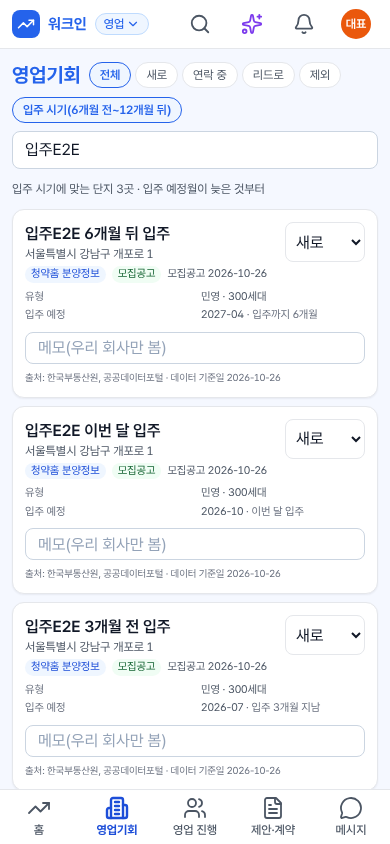
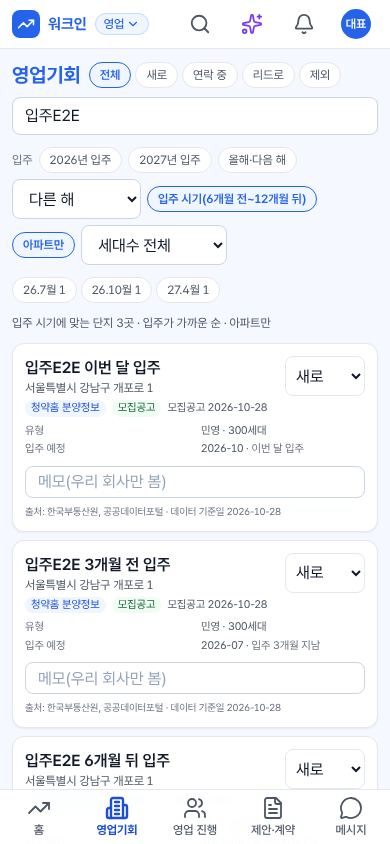
[배포확인요청][로컬요청] 242차 — #759 2026년 입주 목록: 입주 연도·달 고르기 · 가까운 순 · 전체 건수·더 보기 · 아파트만·세대수 · K-apt 준공·입주 단지
로컬 10/28 19:50 #759(대표 최우선 '26년도 입주 아파트 리스트'). 원인: 입주 시기 목록이 입주 예정월 늦은 순 + 100건 상한이라 2026년 1~11월 입주가 잘림.
- src/lib/sales/sources.ts·api/sales/prospects: moveInRange(window·YYYY·YYYY-YYYY·YYYY-MM) · 입주가 이번 달에 가까운 순 · total·달마다 건수(months) · offset 더 보기 · apt(종류 모르는 줄은 남김)·minHh
- src/lib/sales/srcViews.ts·api/sales/src: 허브 ?my= 입주(없으면 준공·사용승인) 연도·달 · total
- src/components/sales/Prospects.tsx: 입주 고르기 칩·다른 해·달 칩·건수 줄·더 보기·아파트만·세대수 · 같은 해 K-apt 준공·입주 단지 칸(허브로)
- src/components/sales/SalesSrc.tsx: 허브 ?my= 칩 · 건수 = 전체 건수
- tests: api sales-movein-759(새)·sales-newcomplex-186 · e2e movein759(새)·moveIn186
시험: API 7/7 · E2E 2/2 · typecheck·lint·build

Claude-Session: https://claude.ai/code/session_016D6QaBbBuSZXAeHKp3DqaZ

diff --git a/src/components/sales/Prospects.tsx b/src/components/sales/Prospects.tsx
@@ -1,7 +1,9 @@
 'use client';
 import { dtf } from '@/lib/dtf';
-import { useState } from 'react';
+import Link from 'next/link';
+import { useEffect, useState } from 'react';
 import { api, useApi } from '@/components/client';
+import { useUrlState } from '@/components/urlState';
 import { ErrorBox, Skeleton, cx, inputCls, toast } from '@/components/ui';
 
 const ST = { new: '새로', contacting: '연락 중', lead: '리드로', skip: '제외' } as const;
@@ -16,29 +18,75 @@ function moveInLabel(moveIn: string) {
   return diff > 0 ? `입주까지 ${diff}개월` : diff === 0 ? '이번 달 입주' : `입주 ${-diff}개월 지남`;
 }
 
+const thisYear = () => Number(dtf('en-CA', { timeZone: 'Asia/Seoul', year: 'numeric' }).format(new Date()));
+/** 242차 #759: 입주 고르기 이름 — window · YYYY · YYYY-YYYY · YYYY-MM */
+function miLabel(mi: string) {
+  if (mi === 'window') return '입주 시기(6개월 전~12개월 뒤)';
+  if (/^\d{4}$/.test(mi)) return `${mi}년 입주`;
+  if (/^\d{4}-\d{4}$/.test(mi)) return `${mi.slice(0, 4)}~${mi.slice(5)}년 입주`;
+  return `${mi.slice(0, 4)}년 ${Number(mi.slice(5, 7))}월 입주`;
+}
+type MoveInfo = { from: string; to: string; months: { ym: string; n: number }[] };
+type Kapt = { id: string; name: string; date?: string | null; completion?: string | null; moveIn?: string | null; households?: number | string | null; address?: string | null; region?: string | null };
+
 export function Prospects() {
   const [status, setStatus] = useState('');
   const [q, setQ] = useState(''); const [query, setQuery] = useState('');
-  const [move, setMove] = useState(false); // 입주 시기 목록(입주 6개월 전 ~ 입주 후 12개월)
-  const { data, error, reload } = useApi<{ prospects: P[] }>(`/api/sales/prospects?status=${status}&q=${encodeURIComponent(query)}${move ? '&moveIn=window' : ''}`, [status, query, move]);
+  // 242차 #759(대표 10/28 '26년도 입주 아파트 리스트'): 입주 고르기(?mi=) · 아파트만(기본 켬, ?mapt=0 끔) · 세대수 이상(?mhh=) — 주소에 남음
+  const [mi, setMi] = useUrlState('mi', ''); const [aptQ, setApt] = useUrlState('mapt', ''); const [hh, setHh] = useUrlState('mhh', '');
+  const move = !!mi; const apt = move && aptQ !== '0';
+  const y = thisYear(); const year = /^\d{4}/.test(mi) ? mi.slice(0, 4) : '';
+  const qs = `status=${status}&q=${encodeURIComponent(query)}${move ? `&moveIn=${mi}${apt ? '&apt=1' : ''}${Number(hh) > 0 ? `&minHh=${hh}` : ''}` : ''}`;
+  const { data, error, reload } = useApi<{ prospects: P[]; total: number; moveIn?: MoveInfo }>(`/api/sales/prospects?${qs}`, [qs]);
+  const [more, setMore] = useState<P[]>([]); const [busy, setBusy] = useState(false);
+  useEffect(() => setMore([]), [qs, data]);
+  const list = [...(data?.prospects ?? []), ...more];
+  async function loadMore() {
+    setBusy(true);
+    try { const r = await api<{ prospects: P[] }>(`/api/sales/prospects?${qs}&offset=${list.length}&limit=100`); setMore((m) => [...m, ...r.prospects]); } catch (e: any) { toast.error(e.message); } finally { setBusy(false); }
+  }
+  // 같은 해·달의 K-apt 준공·입주(사용승인) 단지 · 신규 단지 — 영업기회 허브 목록(회사 거르기·진행 상태 그대로)
+  const my = /^\d{4}(-\d{2})?$/.test(mi) && !/^\d{4}-\d{4}$/.test(mi) ? mi : '';
+  const fac = useApi<{ items: Kapt[]; total?: number }>(my ? `/api/sales/src?view=hub&tab=facilities&my=${my}&sort=moveIn${Number(hh) > 0 ? `&hh=${hh}` : ''}${query ? `&q=${encodeURIComponent(query)}` : ''}` : null, [my, hh, query]);
+  const bld = useApi<{ items: Kapt[]; total?: number }>(my ? `/api/sales/src?view=hub&tab=buildings&my=${my}&sort=moveIn${Number(hh) > 0 ? `&hh=${hh}` : ''}${query ? `&q=${encodeURIComponent(query)}` : ''}` : null, [my, hh, query]);
   async function set(p: P, body: { status?: string; memo?: string }) {
     try { await api(`/api/sales/prospects/${p.id}`, { method: 'PATCH', body }); reload(); } catch (e: any) { toast.error(e.message); }
   }
+  const chip = (on: boolean) => cx('rounded-full border px-2.5 py-1 text-xs', on ? 'border-[#2563EB] bg-[#EFF6FF] font-semibold text-[#2563EB]' : 'border-line bg-white text-ink-2');
+  const kapt = [...(bld.data?.items ?? []).map((x) => ({ ...x, tab: 'buildings' as const })), ...(fac.data?.items ?? []).map((x) => ({ ...x, tab: 'facilities' as const }))];
+  const kaptTotal = (bld.data?.total ?? bld.data?.items.length ?? 0) + (fac.data?.total ?? fac.data?.items.length ?? 0);
   return (
     <div className="space-y-3" data-testid="prospects">
       <div className="flex flex-wrap items-center gap-2">
         <h1 className="text-xl font-bold text-[#2563EB]">영업기회</h1>
         <div className="flex gap-1">{[['', '전체'], ['new', '새로'], ['contacting', '연락 중'], ['lead', '리드로'], ['skip', '제외']].map(([k, l]) => (
-          <button key={k} type="button" onClick={() => setStatus(k)} aria-pressed={status === k} className={cx('rounded-full border px-2.5 py-1 text-xs', status === k ? 'border-[#2563EB] bg-[#EFF6FF] font-semibold text-[#2563EB]' : 'border-line bg-white text-ink-2')}>{l}</button>))}</div>
-        <button type="button" onClick={() => setMove((v) => !v)} aria-pressed={move} data-testid="prospects-movein" title="청약홈 입주 예정월 기준 — 입주 6개월 전부터 입주 후 12개월까지"
-          className={cx('rounded-full border px-2.5 py-1 text-xs', move ? 'border-[#2563EB] bg-[#EFF6FF] font-semibold text-[#2563EB]' : 'border-line bg-white text-ink-2')}>입주 시기(6개월 전~12개월 뒤)</button>
+          <button key={k} type="button" onClick={() => setStatus(k)} aria-pressed={status === k} className={chip(status === k)}>{l}</button>))}</div>
         <form onSubmit={(e) => { e.preventDefault(); setQuery(q.trim()); }} className="ml-auto w-full sm:w-64"><input className={inputCls} value={q} onChange={(e) => setQ(e.target.value)} placeholder="이름·주소 검색" aria-label="영업기회 검색" /></form>
       </div>
-      {move && data && !!data.prospects.length && <p className="text-xs text-ink-2" data-testid="prospects-movein-count">입주 시기에 맞는 단지 {data.prospects.length}곳 · 입주 예정월이 늦은 것부터</p>}
-      {error ? <ErrorBox error={error} retry={reload} /> : !data ? <Skeleton rows={5} /> : !data.prospects.length ? (
-        <p className="rounded-card border border-dashed border-line bg-white p-6 text-center text-sm text-ink-3">{move ? '입주 시기(입주 6개월 전~입주 후 12개월)에 맞는 단지가 아직 없습니다. 청약홈 분양정보 원천을 켜면 입주 예정월로 골라 보여 줍니다.' : '아직 영업기회가 없습니다. 데이터 설정에서 원천을 켜면 매일 아침 새로 들어옵니다.'}</p>
+      {/* 242차 #759: 입주 고르기 — 올해·다음 해 바로, 다른 해는 고르기 · 6개월 전~12개월 뒤 창(186차) */}
+      <div className="flex flex-wrap items-center gap-1.5" data-testid="prospects-movein-row">
+        <span className="text-xs text-ink-3">입주</span>
+        {[String(y), String(y + 1), `${y}-${y + 1}`].map((k) => (
+          <button key={k} type="button" onClick={() => setMi(mi === k ? '' : k)} aria-pressed={mi === k || (k.length === 4 && mi.startsWith(`${k}-`) && mi.length === 7)} className={chip(mi === k || (k.length === 4 && mi.startsWith(`${k}-`) && mi.length === 7))} data-testid={`prospects-mi-${k}`}>{k.length === 4 ? `${k}년 입주` : '올해·다음 해'}</button>))}
+        <select className={cx(inputCls, 'h-7 !w-auto py-0 text-xs')} value={/^\d{4}$/.test(mi) && ![String(y), String(y + 1)].includes(mi) ? mi : ''} onChange={(e) => setMi(e.target.value)} aria-label="입주 연도 고르기" data-testid="prospects-mi-year">
+          <option value="">다른 해</option>{[y - 2, y - 1, y + 2, y + 3].map((v) => <option key={v} value={String(v)}>{v}년 입주</option>)}</select>
+        <button type="button" onClick={() => setMi(mi === 'window' ? '' : 'window')} aria-pressed={mi === 'window'} data-testid="prospects-movein" title="청약홈 입주 예정월 기준 — 입주 6개월 전부터 입주 후 12개월까지" className={chip(mi === 'window')}>입주 시기(6개월 전~12개월 뒤)</button>
+        {move && <>
+          <span className="mx-0.5 hidden h-4 w-px bg-line sm:block" />
+          <button type="button" onClick={() => setApt(apt ? '0' : '')} aria-pressed={apt} className={chip(apt)} data-testid="prospects-apt" title="청약홈 '아파트' 분양만(오피스텔·도시형·민간임대·생활숙박 빼기)">아파트만</button>
+          <select className={cx(inputCls, 'h-7 !w-auto py-0 text-xs')} value={hh} onChange={(e) => setHh(e.target.value)} aria-label="세대수 이상" data-testid="prospects-hh">
+            <option value="">세대수 전체</option>{['100', '300', '500', '1000'].map((v) => <option key={v} value={v}>{Number(v).toLocaleString('ko-KR')}세대 이상</option>)}</select>
+        </>}
+      </div>
+      {move && data?.moveIn && (data.moveIn.months.length > 1 || mi.length === 7) && <div className="flex flex-wrap items-center gap-1 text-xs" data-testid="prospects-months">
+        {mi.length === 7 && <button type="button" onClick={() => setMi(year)} className={chip(false)} data-testid="prospects-month-all">‹ {year}년 전체</button>}
+        {data.moveIn.months.map((m) => <button key={m.ym} type="button" onClick={() => setMi(m.ym)} className={chip(mi === m.ym)} data-testid="prospects-month">{data.moveIn!.months.some((x) => x.ym.slice(0, 4) !== m.ym.slice(0, 4)) ? `${m.ym.slice(2, 4)}.` : ''}{Number(m.ym.slice(5, 7))}월 {m.n}</button>)}
+      </div>}
+      {move && data && <p className="text-xs text-ink-2" data-testid="prospects-movein-count">{mi === 'window' ? `입주 시기에 맞는 단지 ${data.total}곳` : `${miLabel(mi)} ${data.total}곳`} · 입주가 가까운 순{apt ? ' · 아파트만' : ''}{Number(hh) > 0 ? ` · ${Number(hh).toLocaleString('ko-KR')}세대 이상` : ''}</p>}
+      {error ? <ErrorBox error={error} retry={reload} /> : !data ? <Skeleton rows={5} /> : !list.length ? (
+        <p className="rounded-card border border-dashed border-line bg-white p-6 text-center text-sm text-ink-3">{move ? `${miLabel(mi)} 청약홈 단지가 아직 없습니다${apt ? '(아파트만)' : ''}. 청약홈 분양정보 원천을 켜면 입주 예정월로 골라 보여 줍니다.` : '아직 영업기회가 없습니다. 데이터 설정에서 원천을 켜면 매일 아침 새로 들어옵니다.'}</p>
       ) : (
-        <ul className="space-y-2">{data.prospects.map((p) => ( /* #609(대표 10/25 ⑤): 허브 모든 탭 1열 */
+        <ul className="space-y-2">{list.map((p) => ( /* #609(대표 10/25 ⑤): 허브 모든 탭 1열 */
           <li key={p.id} className="rounded-card border border-line bg-white p-3 shadow-card" data-testid="prospect-card">
             <div className="flex items-start gap-2">
               <div className="min-w-0 flex-1">
@@ -70,6 +118,21 @@ export function Prospects() {
             <p className="mt-1.5 text-[10px] text-ink-3" data-testid="prospect-source">{p.attribution} · 데이터 기준일 {p.base_date}</p>
           </li>))}</ul>
       )}
+      {data && list.length < data.total && <button type="button" onClick={loadMore} disabled={busy} className="w-full rounded-card border border-line bg-white py-2 text-sm text-ink-2 hover:bg-slate-50 disabled:opacity-60" data-testid="prospects-more">
+        {busy ? '불러오는 중…' : `더 보기 (${list.length.toLocaleString('ko-KR')} / ${data.total.toLocaleString('ko-KR')})`}</button>}
+      {/* 242차 #759: 같은 해·달 K-apt 준공·입주(사용승인) 단지·신규 단지 — 영업기회 허브 목록(회사 거르기·진행 상태 그대로) */}
+      {my && (fac.data || bld.data) && <section className="space-y-1.5 rounded-card border border-line bg-white p-3" data-testid="prospects-kapt">
+        <div className="flex flex-wrap items-center gap-2 text-sm"><b>K-apt·신규 단지 준공·입주 {miLabel(my).replace(' 입주', '')} {kaptTotal}곳</b>
+          <span className="text-xs text-ink-3">입주일(없으면 준공·사용승인일) 기준</span>
+          <Link prefetch={false} href={`/s/sales/hub?tab=facilities&my=${my}&sort=moveIn`} className="ml-auto text-xs text-[#2563EB] hover:underline" data-testid="prospects-kapt-all">허브에서 모두 보기</Link></div>
+        {!kapt.length ? <p className="text-xs text-ink-3">이 기간 K-apt 준공·입주 단지가 없습니다.</p>
+          : <ul className="divide-y divide-line text-sm">{kapt.slice(0, 30).map((x) => (
+            <li key={`${x.tab}:${x.id}`} className="flex min-w-0 items-center gap-2 py-1.5" data-testid="prospects-kapt-row">
+              <Link prefetch={false} href={`/s/sales/hub?tab=${x.tab}&id=${encodeURIComponent(String(x.id))}`} className="min-w-0 flex-1 truncate hover:underline">{x.name}</Link>
+              <span className="shrink-0 text-xs text-ink-2">{[x.moveIn ? `입주 ${x.moveIn.slice(0, 7)}` : (x.completion ?? x.date) ? `준공 ${String(x.completion ?? x.date).slice(0, 7)}` : null, Number(x.households) > 0 ? `${Number(x.households).toLocaleString('ko-KR')}세대` : null, x.tab === 'buildings' ? '신규 단지' : 'K-apt'].filter(Boolean).join(' · ')}</span>
+            </li>))}</ul>}
+        {kapt.length > 30 && <p className="text-[11px] text-ink-3">그 밖 {kapt.length - 30}곳은 허브에서</p>}
+      </section>}
     </div>
   );
 }

diff --git a/src/lib/sales/sources.ts b/src/lib/sales/sources.ts
@@ -183,28 +183,49 @@ export function moveInWindow(now = new Date()) {
   const first = (add: number) => new Date(Date.UTC(y, m - 1 + add, 1)).toISOString().slice(0, 10);
   return { from: first(-12), to: first(6) };
 }
-/** 영업기회 목록: 회사가 켠 원천 × (지역·검색어·제외어) — 원천 데이터는 공용, 진행 상태·메모는 회사별 */
-export async function listProspects(u: SessionUser, q: { status?: string; source?: string; q?: string; limit?: number; moveIn?: string }) {
+/** 242차 #759(대표 10/28 '26년도 입주 아파트 리스트'): 입주 고르기 — window(6개월 전~12개월 뒤) · YYYY(한 해) · YYYY-YYYY(여러 해, 5년까지) · YYYY-MM(한 달). 입주 예정월은 그 달 1일 */
+export function moveInRange(v?: string | null, now = new Date()): { from: string; to: string } | null {
+  if (!v) return null;
+  if (v === 'window') return moveInWindow(now);
+  let m = /^(\d{4})$/.exec(v); if (m) return { from: `${m[1]}-01-01`, to: `${m[1]}-12-01` };
+  m = /^(\d{4})-(\d{4})$/.exec(v); if (m && +m[1] <= +m[2] && +m[2] - +m[1] <= 5) return { from: `${m[1]}-01-01`, to: `${m[2]}-12-01` };
+  m = /^(\d{4})-(0[1-9]|1[0-2])$/.exec(v); if (m) return { from: `${v}-01`, to: `${v}-01` };
+  return null;
+}
+/** 영업기회 목록: 회사가 켠 원천 × (지역·검색어·제외어) — 원천 데이터는 공용, 진행 상태·메모는 회사별.
+ *  242차 #759: 입주 고르기면 입주가 오늘에 가까운 순 · 전체 건수(total)·월별 건수(months) · 더 보기(offset) · 아파트만(apt)·세대수 이상(minHh) */
+export async function listProspects(u: SessionUser, q: { status?: string; source?: string; q?: string; limit?: number; offset?: number; moveIn?: string; apt?: boolean; minHh?: number }) {
   await assertSpace(u, 'sales');
   const sql = db(); const t = tenantOf(u);
-  // 186차(로컬 10/26 19:20 B2): 입주 시기 목록 — 입주 6개월 전 ~ 입주 후 12개월(= 입주 예정월이 12개월 전 ~ 6개월 뒤), 입주 예정월이 늦은 것부터
-  const win = q.moveIn === 'window'; const { from, to } = moveInWindow();
-  const rows = await sql<any[]>`select p.id, p.name, p.address, p.sido, p.status as biz_status, to_char(p.opened_on, 'YYYY-MM-DD') as opened_on, to_char(p.closed_on, 'YYYY-MM-DD') as closed_on,
-      p.category, p.detail, to_char(coalesce(p.base_date, p.fetched_at::date), 'YYYY-MM-DD') as base_date, s.code as source_code, s.name as source_name, s.provider, s.license,
-      coalesce(tp.status, 'new') as status, tp.memo
-    from prospects p join data_sources s on s.code = p.source_code
-    join tenant_data_sources ts on ts.source_code = p.source_code and ts.tenant = ${t} and ts.enabled
-    left join tenant_prospects tp on tp.prospect_id = p.id and tp.tenant = ${t}
-    where (cardinality(ts.regions) = 0 or p.sido = any(ts.regions))
+  const mi = moveInRange(q.moveIn);
+  const [ny, nm] = new Intl.DateTimeFormat('en-CA', { timeZone: 'Asia/Seoul', year: 'numeric', month: '2-digit' }).format(new Date()).split('-').map(Number);
+  const minHh = Math.max(0, Math.min(Math.round(Number(q.minHh) || 0), 100000));
+  const lim = Math.min(Math.max(Math.round(Number(q.limit) || 100), 1), 300), off = Math.min(Math.max(Math.round(Number(q.offset) || 0), 0), 20000);
+  const hhOf = sql`coalesce(nullif(regexp_replace(coalesce(p.detail->>'households', ''), '[^0-9]', '', 'g'), '')::numeric, 0)`;
+  const cond = sql`(cardinality(ts.regions) = 0 or p.sido = any(ts.regions))
       and (cardinality(ts.keywords) = 0 or s.category = 'permit' or exists (select 1 from unnest(ts.keywords) k where p.name ilike '%' || k || '%' or coalesce(p.category, '') ilike '%' || k || '%'))
       and not exists (select 1 from unnest(ts.excludes) x where p.name ilike '%' || x || '%')
       and (${q.source ?? ''} = '' or p.source_code = ${q.source ?? ''})
       and (${q.q ?? ''} = '' or p.name ilike ${'%' + (q.q ?? '') + '%'} or coalesce(p.address, '') ilike ${'%' + (q.q ?? '') + '%'})
       and (${q.status ?? ''} = '' or coalesce(tp.status, 'new') = ${q.status ?? ''})
       and (${q.status ?? ''} = 'skip' or coalesce(tp.status, 'new') <> 'skip')
-      and (${win ? 1 : 0} = 0 or (p.detail->>'moveIn' >= ${from} and p.detail->>'moveIn' <= ${to}))
-    order by ${win ? sql`p.detail->>'moveIn' desc,` : sql``} p.opened_on desc nulls last, p.id desc limit ${Math.min(q.limit ?? 100, 300)}`;
-  return { prospects: rows.map((r) => ({ ...r, attribution: attribution(r) })) };
+      and ${q.apt ? sql`coalesce(p.detail->>'kind', '아파트') = '아파트'` : sql`true`} and ${minHh ? sql`${hhOf} >= ${minHh}` : sql`true`}`;
+  const from = sql`from prospects p join data_sources s on s.code = p.source_code
+    join tenant_data_sources ts on ts.source_code = p.source_code and ts.tenant = ${t} and ts.enabled
+    left join tenant_prospects tp on tp.prospect_id = p.id and tp.tenant = ${t}`;
+  const inMove = mi ? sql`and p.detail->>'moveIn' >= ${mi.from} and p.detail->>'moveIn' <= ${mi.to}` : sql``;
+  // 입주가 오늘(서울 이번 달)에 가까운 순 → 같은 거리면 이른 달·세대수 많은 순
+  const dist = sql`abs((substr(p.detail->>'moveIn', 1, 4)::int * 12 + substr(p.detail->>'moveIn', 6, 2)::int) - ${ny * 12 + nm})`;
+  const rows = await sql<any[]>`select p.id, p.name, p.address, p.sido, p.status as biz_status, to_char(p.opened_on, 'YYYY-MM-DD') as opened_on, to_char(p.closed_on, 'YYYY-MM-DD') as closed_on,
+      p.category, p.detail, to_char(coalesce(p.base_date, p.fetched_at::date), 'YYYY-MM-DD') as base_date, s.code as source_code, s.name as source_name, s.provider, s.license,
+      coalesce(tp.status, 'new') as status, tp.memo, count(*) over() as total
+    ${from}
+    where ${cond} ${inMove}
+    order by ${mi ? sql`${dist}, p.detail->>'moveIn', ${hhOf} desc,` : sql``} p.opened_on desc nulls last, p.id desc limit ${lim} offset ${off}`;
+  // 여러 달을 고른 때: 달마다 건수(칩) — 같은 거르기 그대로
+  const months = mi && mi.from !== mi.to ? (await sql<{ ym: string; n: number }[]>`select substr(p.detail->>'moveIn', 1, 7) as ym, count(*)::int as n ${from} where ${cond} ${inMove} group by 1 order by 1`) : [];
+  const total = rows.length ? Number(rows[0].total) : off ? Number((await sql<{ n: number }[]>`select count(*)::int as n ${from} where ${cond} ${inMove}`)[0].n) : 0;
+  return { total, offset: off, limit: lim, ...(mi ? { moveIn: { ...mi, months } } : {}), prospects: rows.map(({ total: _t, ...r }) => ({ ...r, attribution: attribution(r) })) };
 }
 export const prospectInput = z.object({ status: z.enum(['new', 'contacting', 'lead', 'skip']).optional(), memo: z.string().max(2000).optional() });
 export async function setProspect(u: SessionUser, id: number, i: z.infer<typeof prospectInput>) {

diff --git a/src/lib/sales/srcViews.ts b/src/lib/sales/srcViews.ts
@@ -196,7 +196,7 @@ export function isOpenBid(n: { related?: boolean; status?: unknown; close?: stri
   return true;
 }
 
-export async function salesView(u: SessionUser, view: string, q: { q?: string; id?: string; status?: string; tab?: string; day?: string; from?: string; to?: string; biz?: string; sort?: string; box?: string; region?: string; hh?: string; period?: string; trace?: string[] }) {
+export async function salesView(u: SessionUser, view: string, q: { q?: string; id?: string; status?: string; tab?: string; day?: string; from?: string; to?: string; biz?: string; sort?: string; box?: string; region?: string; hh?: string; period?: string; my?: string; trace?: string[] }) {
   await assertSpace(u, 'sales');
   const t = tenantOf(u); const sql = db();
   const [applied] = await sql<{ value: any }[]>`select value from app_settings where key = 'sales_migrate_applied'`;
@@ -537,6 +537,9 @@ export async function salesView(u: SessionUser, view: string, q: { q?: string; i
     const sortKey = String(q.sort ?? '') || null; const region = String(q.region ?? '').trim(); const hh = Number(q.hh) > 0 ? Number(q.hh) : 0; const months = [1, 3, 6].includes(Number(q.period)) ? Number(q.period) : 0;
     const lo = months ? shiftMonths(td, -months) : null, hi = months ? shiftMonths(td, months) : null;
     const inPeriod = (...dates: (string | null | undefined)[]) => !months || dates.some((d) => !!d && d >= lo! && d <= hi!);
+    // 242차 #759: 입주(없으면 준공·사용승인) 연도·달(?my=YYYY|YYYY-MM) — 영업기회 '2026년 입주' 목록에 K-apt 준공·입주 단지를 함께
+    const my = /^\d{4}(-(0[1-9]|1[0-2]))?$/.test(String(q.my ?? '')) ? String(q.my) : '';
+    const myOk = (d: string | null | undefined) => !my || (!!d && d.startsWith(my));
     const regionOk = (x: { region?: unknown; address?: unknown }) => !region || String(x.region ?? '').includes(region) || String(x.address ?? '').includes(region);
     const hhOk = (x: { households?: unknown }) => !hh || Number(x.households) >= hh;
     const asc = (a: unknown, b: unknown) => String(a ?? '9999-99').localeCompare(String(b ?? '9999-99')); const desc = (a: unknown, b: unknown) => String(b ?? '').localeCompare(String(a ?? '')); const numDesc = (a: unknown, b: unknown) => (Number(b) || 0) - (Number(a) || 0);
@@ -546,7 +549,7 @@ export async function salesView(u: SessionUser, view: string, q: { q?: string; i
       const archived = list.filter(isDone); const base = (box === 'archive' ? archived : list.filter((x) => !isDone(x))).filter(keep);
       const statusCounts = Object.fromEntries(STATUS_GROUPS.map(([k]) => [k, base.filter((x) => stMatch(k, stOf(x))).length])); // #459 칩 건수(상태 필터 전)
       const out = stKey ? base.filter((x) => stMatch(stKey, stOf(x))) : base;
-      return { ...meta, tab, box, tabs, sort: sortKey, status: stKey || null, statusGroups: STATUS_GROUPS.map(([k, l]) => [k, l]), statusCounts, filters: { region: region || null, hh: hh || null, period: months || null }, regions, archiveCount: archived.length, items: (sorter ? [...out].sort(sorter) : out).slice(0, 300) };
+      return { ...meta, tab, box, tabs, sort: sortKey, status: stKey || null, statusGroups: STATUS_GROUPS.map(([k, l]) => [k, l]), statusCounts, filters: { region: region || null, hh: hh || null, period: months || null, my: my || null }, regions, archiveCount: archived.length, total: out.length, items: (sorter ? [...out].sort(sorter) : out).slice(0, 300) };
     };
     // S1-2: 신규단지 진행(opportunity_work · source_id = 단지 id)
     const BW = new Map((await prog('opportunity_work')).filter((w) => String(pick(w, 'source_type') ?? '') === 'building' || pick(w, 'building_id')).map((w) => [String(pick(w, 'source_id', 'building_id') ?? ''), w]));
@@ -566,7 +569,7 @@ export async function salesView(u: SessionUser, view: string, q: { q?: string; i
           firstSeen: firstSeen(r), raw: r }; });
       type B = (typeof list)[number];
       const sorter: Record<string, (a: B, b: B) => number> = { completion: (a, b) => asc(a.completion, b.completion), moveIn: (a, b) => asc(a.moveIn, b.moveIn), households: (a, b) => numDesc(a.households, b.households), firstSeen: (a, b) => desc(a.firstSeen, b.firstSeen) };
-      return pack(list, (x) => done(x.work?.status), (x) => regionOk(x) && hhOk(x) && inPeriod(x.completion, x.moveIn, x.firstSeen), sorter[sortKey ?? ''] ?? null, (x) => x.work?.status);
+      return pack(list, (x) => done(x.work?.status), (x) => regionOk(x) && hhOk(x) && inPeriod(x.completion, x.moveIn, x.firstSeen) && myOk(x.moveIn ?? x.completion), sorter[sortKey ?? ''] ?? null, (x) => x.work?.status);
     }
     if (tab === 'facilities') {
       const P = new Map((await prog('operating_facility_prospects__progress', 20000)).map((p) => [String(p.id ?? p.__id), p]));
@@ -591,7 +594,7 @@ export async function salesView(u: SessionUser, view: string, q: { q?: string; i
       type Fc = (typeof list)[number];
       const sorter: Record<string, (a: Fc, b: Fc) => number> = { completion: (a, b) => asc(a.date, b.date), moveIn: (a, b) => asc(a.moveIn, b.moveIn), elapsed: (a, b) => numDesc(a.elapsedDays, b.elapsedDays), households: (a, b) => numDesc(a.households, b.households), next: (a, b) => asc(a.next, b.next) };
       // 200차 #699: 원본 기준일 한 줄 — 준공·입주 단지 원천의 기준일(우선순위 순: K-apt 자료실 주 1회 · K-apt 단지 목록 매일 · 한국부동산원 연 1회)
-      return { ...pack(list, (x) => done(x.contact), (x) => regionOk(x) && hhOk(x) && inPeriod(x.date, x.moveIn, x.firstSeen),
+      return { ...pack(list, (x) => done(x.contact), (x) => regionOk(x) && hhOk(x) && inPeriod(x.date, x.moveIn, x.firstSeen) && myOk(x.moveIn ?? x.date),
         sorter[sortKey ?? ''] ?? ((a, b) => (Number(b.households ?? 0) - Number(a.households ?? 0)) || ((b.score ?? -1) - (a.score ?? -1))), (x) => x.contact),
         sourceAsOf: await sourceAsOf(['kapt_weekly_complexes', 'kapt_new_complexes', 'reb_recent_complexes']) };
     }

diff --git a/src/components/sales/SalesSrc.tsx b/src/components/sales/SalesSrc.tsx
@@ -1198,8 +1198,9 @@ export function Hub({ initialSub }: { initialTab?: string; initialDay?: string; 
   const [boxQ, setBox] = useUrlState('box', ''); const box = boxQ === 'archive' ? 'archive' : ''; // #605 보관함(대상 아님·완료)
   const [sort, setSort] = useUrlState('sort', ''); const [region, setRegion] = useUrlState('region', ''); const [hh, setHh] = useUrlState('hh', ''); const [period, setPeriod] = useUrlState('period', ''); // #606
   const [st, setSt] = useUrlState('st', ''); // #459(대표 10/23): 상태 필터 칩(주소 ?st=)
+  const [my, setMy] = useUrlState('my', ''); // 242차 #759: 입주(없으면 준공) 연도·달 — 영업기회 '2026년 입주'에서 넘어옴
   const sub = ['bids', 'contracts', 'prospects', 'regions'].includes(tab);
-  const { data, error, reload } = useApi<any>(sub ? (null as unknown as string) : `/api/sales/src?${q({ view: 'hub', tab, q: s, day, box, sort, region, hh, period, status: st })}`, [tab, s, day, box, sort, region, hh, period, st]);
+  const { data, error, reload } = useApi<any>(sub ? (null as unknown as string) : `/api/sales/src?${q({ view: 'hub', tab, q: s, day, box, sort, region, hh, period, status: st, my })}`, [tab, s, day, box, sort, region, hh, period, st, my]);
   const [sel, setSel] = useState<string[]>([]); // 대표 10/20 14:15 ④ 일괄 선택
   useEffect(() => setSel([]), [tab, box, st]);
   const reopen = useRef(sub ? null : sp.get('id')); // 주소 ?id= 상세(새로 고침·뒤로가기) — 목록을 불러온 뒤 그 줄로
@@ -1216,6 +1217,7 @@ export function Hub({ initialSub }: { initialTab?: string; initialDay?: string; 
   return (
     <div className="space-y-3" data-testid="sales-hub">
       <Head title="영업기회 허브" meta={data}><Search value={s} onChange={setS} />
+        {my && <button type="button" onClick={() => setMy('')} className="rounded-full border px-2.5 py-0.5 text-xs" style={{ color: C, borderColor: C }} data-testid="hub-my">{my.length === 4 ? `${my}년` : `${my.slice(0, 4)}년 ${Number(my.slice(5, 7))}월`} 입주·준공 ✕</button>}
         {day === 'today' && <button type="button" onClick={() => setDay('')} className="rounded-full border px-2.5 py-0.5 text-xs" style={{ color: C, borderColor: C }} data-testid="hub-day-today">오늘 새로 들어온 것만 ✕</button>}</Head>
       {tabRow((on) => cx('rounded-full border px-3 py-1 text-xs', on ? 'border-transparent text-white' : 'border-line'), (on) => (on ? { background: C } : undefined))}
       {/* #605 보관함 칩 · #606 정렬·필터(지역·세대수·기간) — 모두 주소에 저장(새로 고침·뒤로가기에도 같은 목록) */}
@@ -1227,7 +1229,7 @@ export function Hub({ initialSub }: { initialTab?: string; initialDay?: string; 
         {tab !== 'vendors' && <select className={cx(inputCls, 'h-7 !w-auto py-0 text-xs')} value={region} onChange={(e) => setRegion(e.target.value)} aria-label="지역 필터" data-testid="hub-f-region"><option value="">지역 전체</option>{regions.map((r) => <option key={r} value={r}>{r}</option>)}{region && !regions.includes(region) && <option value={region}>{region}</option>}</select>}
         {tab !== 'vendors' && <select className={cx(inputCls, 'h-7 !w-auto py-0 text-xs')} value={hh} onChange={(e) => setHh(e.target.value)} aria-label="세대수 필터" data-testid="hub-f-hh"><option value="">세대수 전체</option>{[['300', '300세대 이상'], ['500', '500세대 이상'], ['1000', '1,000세대 이상']].map(([k, l]) => <option key={k} value={k}>{l}</option>)}</select>}
         <select className={cx(inputCls, 'h-7 !w-auto py-0 text-xs')} value={period} onChange={(e) => setPeriod(e.target.value)} aria-label="기간 필터" data-testid="hub-f-period"><option value="">기간 전체</option><option value="1">1개월 안</option><option value="3">3개월 안</option><option value="6">6개월 안</option></select>
-        {data && <span className="ml-auto text-ink-3" data-testid="hub-count">{data.items.length}건{data.items.length === 300 ? '+(최근 300)' : ''}</span>}
+        {data && <span className="ml-auto text-ink-3" data-testid="hub-count">{(data.total ?? data.items.length).toLocaleString('ko-KR')}건{(data.total ?? 0) > data.items.length ? ` (앞 ${data.items.length}건 표시)` : ''}</span>}
       </div>
       {/* #459(대표 10/23): 상태 필터 칩 — 기본 목록은 미검토·검토중·연락중·신청·보류, 보관함은 대상 아님·완료. 0건 묶음은 숨기고 건수를 같이 보여 줌(주소 ?st=) */}
       {data && <div className="flex flex-wrap items-center gap-1.5 text-xs" data-testid="hub-status-row">

diff --git a/src/app/api/sales/prospects/route.ts b/src/app/api/sales/prospects/route.ts
@@ -4,5 +4,7 @@ import { listProspects } from '@/lib/sales/sources';
 /** V41 단계 3 영업기회(공공데이터): 회사가 켠 원천 × 지역·검색어·제외어 */
 export const GET = handler(async ({ req, user }) => {
   const sp = req.nextUrl.searchParams;
-  return listProspects(user, { status: sp.get('status') ?? undefined, source: sp.get('source') ?? undefined, q: sp.get('q') ?? undefined, moveIn: sp.get('moveIn') ?? undefined });
+  // 242차 #759: 입주 고르기(moveIn=window|YYYY|YYYY-YYYY|YYYY-MM) · 아파트만(apt=1) · 세대수 이상(minHh) · 더 보기(offset·limit)
+  return listProspects(user, { status: sp.get('status') ?? undefined, source: sp.get('source') ?? undefined, q: sp.get('q') ?? undefined, moveIn: sp.get('moveIn') ?? undefined,
+    apt: sp.get('apt') === '1', minHh: Number(sp.get('minHh')) || 0, offset: Number(sp.get('offset')) || 0, limit: Number(sp.get('limit')) || undefined });
 });

diff --git a/src/app/api/sales/src/route.ts b/src/app/api/sales/src/route.ts
@@ -6,5 +6,5 @@ export const GET = handler(async ({ req, user }) => {
   const p = req.nextUrl.searchParams;
   return salesView(user, p.get('view') ?? 'summary', { q: p.get('q') ?? undefined, id: p.get('id') ?? undefined, status: p.get('status') ?? undefined, tab: p.get('tab') ?? undefined, day: p.get('day') ?? undefined, from: p.get('from') ?? undefined, to: p.get('to') ?? undefined, biz: p.get('biz') ?? undefined,
     // #605·#606(대표 10/25): 보관함(box=archive)·정렬(sort)·필터(region·hh·period)
-    sort: p.get('sort') ?? undefined, box: p.get('box') ?? undefined, region: p.get('region') ?? undefined, hh: p.get('hh') ?? undefined, period: p.get('period') ?? undefined });
+    sort: p.get('sort') ?? undefined, box: p.get('box') ?? undefined, region: p.get('region') ?? undefined, hh: p.get('hh') ?? undefined, period: p.get('period') ?? undefined, my: p.get('my') ?? undefined });
 });

diff --git a/docs/handoff/LOCAL_LOG.md b/docs/handoff/LOCAL_LOG.md
@@ -625,6 +625,7 @@
 - 2026-10-28 [클라우드] [배포확인요청][로컬요청] 239차 — #743 1단계·#744 현장설명·#751 취소 공고·#749 아이폰 안내: K-apt 상세의 참가 조건·현장설명 저장(마감 전 관련 공고부터, 담당자·전화 저장 안 함) → 입찰 목록 줄(현장설명 필수 D-n·자격·조건 한 줄·펼치기)·상세·공고 조회·당일 메일(배지·일정 줄)·마감 임박(필수 현장설명 3일 안)·넘긴 입찰 업무 일정. 취소 = 상세 '취소된 계약' 읽어 상태 취소·사유·재공고 잇기·진행 중에서 빠짐. 아이폰 147장 = 웹 쪽 막힘 없음(휴대폰 흉내 16초) → 아이폰에 '50장씩 나눠 고르기' 한 줄. **로컬 요청:** 배포 뒤 데이터 설정 › 수집기 K-apt [지금 수집] → ① 잠실래미안아이파크(20261027135716462) 줄 '현장설명 필수 D-n 11/2(일) 10:00 · 생활지원센터 회의실'·자격·조건 한 줄 ② 광명자이더샵포레나 '필수 여부 공고문 참조' ③ 동일스위트 A20261027150017752 ④ kg2b_142624 가 '취소 · 사유'로 바뀌고 진행 중에서 빠지는지 ⑤ 공고 조회 briefing·terms ⑥ 김민수 본부장 아이폰에서 30장·60장·147장 각각 [추가] 뒤 준비 시간(고르기 창이 떠 있는지).
 - 2026-10-28 [클라우드] [배포확인요청][로컬요청] 240차 — #751 후속(kg2b 같은 공고 두 줄 → 모두 취소·원본 매일 복사가 안 되돌림·카드 취소) · #752 하이링크 공사 '면허 업체 협력 필요'·검토 구역 · #753 AI 비서 자료실 찾기 카드 · #754 브랜드 합치기 · #755~#757 캘린더(시간 글자 줄 위·15분 칸 클릭·30분 일정 안 쪼개짐) · 사이드바 미리 받기 5곳만 · 공개 요금 주소 원가 숨김 · #758 후속조사 '커뮤니티 운영 방식 확인'(직영·위탁·미개관·관련 공고 수) · 가입 체험 'AI 5,000원분'. **로컬 요청:** ① 수집기 K-apt [지금 수집] → kg2b_142624 카드 '취소 · 사유'·진행 중 탭에서 빠짐, 공고 조회 줄마다 상태·origin ② 다음 날 원본 매일 복사 뒤에도 취소 유지 ③ 하이링크 로비폰·출입통제 공사 공고에 '면허 업체 협력 필요' 배지·검토 구역(당일 메일) ④ AI 비서에 '자료실에서 ○○ 찾아줘' → 자료 카드 [열기]·[내려받기]·[업무에 붙이기] ⑤ 대표: 마케팅 › 자동 제작 › 브랜드 키트 DAGYM 카드 '같은 브랜드면 합치기' → 다짐 고르고 합치기(옮긴 항목 수 확인) ⑥ 캘린더 10/29 면접 4건(14:00~16:00)이 위아래 한 줄씩·시간 글자가 줄 위·빈 칸 클릭 15분 단위 ⑦ 첫 화면 직후 메뉴 이동 2~6초가 줄었는지(미리 받기 5곳) ⑧ 이미 만든 이번 주 후속조사 업무 제목은 그대로 — 필요하면 손으로 고침.
 - 2026-10-28 [클라우드] [배포확인요청][로컬요청] 241차 — #751 후속 kg2b_142624(목록 최신 500건 밖이라 상세를 다시 못 읽음 → 마감 전 관련 공고 40건씩 다시 읽기 · 공고 조회 probe=1) · 지운 일정 휴지통(지운 사람·때 · 되살리기 · 삭제 안내 [되돌리기]) · 겹친 일정 구글식 겹쳐 쌓기 · #743 1단계 나라장터 면허제한·참가가능지역 · 홈 목록 등 링크 자동 미리 받기 끔. 로컬 확인 부탁: ① 배포 뒤 K-apt 입찰공고 [지금 수집] 요약 '목록 밖 마감 전 공고 다시 확인 n건(취소 m)' · kg2b_142624 취소 여부 ② 플랫폼 공고 조회 ?no=kg2b_142624&probe=1 의 probe 값(응답 코드·길이·canceledText) ③ 캘린더 겹친 일정이 실제 구글 캘린더처럼 비켜 쌓이는지 ④ 나라장터 [지금 수집] 요약 '참가 제한 조회 n건(값 m)'(0건이면 오류 줄의 받은 칸 이름) ⑤ 홈 첫 화면 RSC 요청 수(전 19) ⑥ 캘린더 '지운 일정'에서 김장춘 면접이 '지운 사람 대표'로 보이는지(되살리기는 하지 않음)
+- 2026-10-28 [클라우드] [배포확인요청][로컬요청] 242차 — #759 2026년 입주 목록(영업기회 › 공공데이터 [2026년 입주]: 전체 건수·가까운 순·달 칩·더 보기·아파트만·세대수 · 같은 해 K-apt 준공·입주 단지 칸). 로컬 확인 부탁: 운영에서 [2026년 입주] 건수와 구리역 롯데캐슬 시그니처(2026-03) 보이는지 · 3월 칩 · 더 보기 끝까지 · 아파트만 끄면 오피스텔 · K-apt 칸 건수·허브 상세 이동 · 휴대폰 폭
 - 2026-10-26 [클라우드] [배포확인요청] 176차 — 171·173차 CI 빨간불 원인 2가지 바로잡음: ① 캘린더 종일 칸 설정이 창 폭이 640 을 넘나들 때 PC 값(꺼짐)을 휴대폰 키에 덮어쓰던 실제 버그(휴대폰 보기 종일 줄이 꺼진 채 시작) → 사람이 바꿀 때만 저장·폭 바뀌면 다시 읽음 ② 실기기 83 시트 버튼 줄 1px 여유. 로컬 확인 요청: 없음(운영 화면 변화는 'PC 창을 좁혔다 넓혀도 휴대폰 종일 줄 설정이 안 꺼짐'뿐). CI 결과는 클라우드가 확인.
 - 2026-10-25 [클라우드] [배포확인요청] 149차 — #599 새 고객사 시뮬레이션(시험 서버 E2E: 가입 → 온보딩 → 첫 화면 → 공간 켜기 → 데이터 설정 → 마케팅 → 자동 제작 → 사용량 → 알림 → API 8개, 캡처 281~295) 명세 §3 결과: 내부 이름 0건 · 키 없는 수집기 7개 = '신청 필요'+[방법 보기] · '채널 연결 3단계' · 첫날 알림 0건 · 사용량 원화만. #602 공통 함수 customerScope(seesInternals = 슈퍼관리자 또는 내부 테넌트): 수집기·사용량·자동 제작·마케팅 홈·AI 예산 응답에서 원인·원가·달러·모델·외부 서비스 이름·원천 주소·공용 실행 기록 제거 + 고객 문구 사전 + 금지 낱말 자동 검사(API 5/5·E2E 발견 0건). P0 버그 수정: 새 회사 첫 로그인·온보딩 끝 직후 흰 화면+로고(수화 오류로 실행 애니메이션 덮개가 안 걷힘) → Modal 마운트 뒤 포털·IntroGuard·CSS 안전장치. 마이그레이션 없음(200 그대로). 로컬 요청: ① 운영에서 새 회사 가입(대표 결정 범위 안에서) → 확인 링크 → 첫 화면이 흰 화면 없이 뜨는지, 온보딩 [완료] 직후도 ② 고객사 계정으로 영업 › 데이터 설정(상태 칩 4가지·[방법 보기]·키 이름/주소/오류 원문 없음)·마케팅 › 자동 제작(글 모델 등급 이름만)·관리 › 사용량(원화·%·횟수만) ③ 내부 테넌트(우리 회사)에서는 예전처럼 전부 보이는지 ④ 공개 요금표(/api/public/ai-plans·소개 사이트)의 단가 표시는 그대로 두었음 — 대표 결정 필요하면 알려 주세요.
 - 2026-10-25 [클라우드] [배포확인요청] 148차 — #592 ② 휴대폰 캘린더 주 보기 밀도(명세 §2): 시간 칸 주 40/3일 48/일 64 → 한 화면 약 15시간, 블록 11px 중간 굵기·줄 수 블록 높이만큼, 좁은 블록 앞머리 [태그] 떼기(부재 종류 유지), 종일 줄 기본 켬(2줄 + '+n개' → 그날 목록), 미팅 단추 둥근 48px·아래로 밀면 숨김, 휴대폰 머리줄 한 줄(월▾·보기 전환·‹›·오늘·+). 견적서 공급자 긴 주소 두 줄(로컬 15:45). 마이그레이션 없음(200 그대로). 로컬 요청: ① 대표 휴대폰(390~412px) 주 보기 — 08~22시가 한 화면에, [다짐 문의] 업무가 내용부터 2줄로, 종일 칩이 날짜 머리 아래 바로, + 단추가 칸을 안 가리고 아래로 밀면 숨는지(명세 §3 2~5) ② 3일·일 보기 칸 높이·일 보기는 제목 그대로 ③ 견적서 미리보기(hilink) 공급자 주소 두 줄 ④ 명세 §3 1·6(구글 11건·중복 정리)은 가져오기를 대표가 취소(#604)해 하지 않음 — 워크인에 직접 넣은 일정만 보임.

diff --git a/TEST_REPORT.md b/TEST_REPORT.md
@@ -1,7 +1,9 @@
 # 시험 보고서
 
 최종 실행: 2026-10-13 (UTC) · 클라우드 개발 환경 (Node 22, PostgreSQL 16, Chromium 141)
-요약 (2026-10-28 241차: 로컬 10/28 19:20 요청: ① #751 후속(kg2b_142624 240차 뒤에도 진행중) 진짜 원인 = K-apt 빠른 수집은 목록 최신 500건만 보고 그 상세만 읽어, 목록 밖으로 밀린 마감 전 관련 공고는 취소돼도 상세를 다시 못 읽음 → 이번에 상세를 못 읽은 마감 전 관련 공고를 DB 에서 '다시 확인한 때'(detail_seen_at)가 오래된 순으로 한 번에 40건 다시 읽음(목록 칸은 저장값 그대로 · 다시 읽기만 한 줄은 updated_at·건수 그대로) + 플랫폼 공고 조회 '?no=…&probe=1' = 지금 상세 응답 코드·길이·'취소된 계약' 여부(저장 안 함) ② 지운 일정 휴지통(캘린더 왼쪽·휴대폰 칩 '지운 일정': 최근 30일 · 지운 사람·때 · 입찰·영업 연동 취소 표시 · 남의 비공개 '바쁨' · [되살리기] · 미리보기에서 지우면 안내 [되돌리기] · 반복 일정은 앞서 지운 회차 제외) ③ 대표 '구글 캘린더 레퍼런스' 겹친 일정 겹쳐 쌓기(slotEventOverlap) ④ #743 1단계 나라장터 면허제한·참가가능지역 공고번호 조회(관련·마감 전만 한 번) ⑤ 홈 목록·알림·설정·프로젝트·더보기 링크 자동 미리 받기 끔
+요약 (2026-10-28 242차: 로컬 10/28 19:50 #759 최우선(대표 '26년도 입주 아파트 리스트가 아직 리스트업 안되어 있다'): 원인 = 영업기회(공공데이터) 입주 시기 목록이 입주 예정월 늦은 순 + 100건 상한이라 2027년 입주에서 끊기고 2026년 1~11월 입주가 안 보임 → 입주 고르기([올해 입주]·[다음 해 입주]·[올해·다음 해]·다른 해·6개월 전~12개월 뒤 창, 주소 ?mi=) · 입주가 오늘에 가까운 순 · 'YYYY년 입주 n곳' 전체 건수 · 달 칩(달마다 건수 → 한 달만) · [더 보기]로 끝까지(상한 없음) · 아파트만(기본 켬, 오피스텔·도시형 빼기)·세대수 이상 · 같은 해 K-apt 준공·입주(사용승인) 단지·신규 단지 칸(허브 상세로, 허브 ?my= 입주·준공 연도 거르기·전체 건수)
+시험: API 7/7(새 sales-movein-759 3 · sales-newcomplex-186 가까운 순으로) · E2E 2/2(새 #759 588·589 · 186차 입주 시기 순서 바꿈) · typecheck·lint·build
+확인 못함: 운영 청약홈 자료로 2026년 입주 건수(로컬 확인) · K-apt 준공·입주 단지가 운영 자료에서 같은 해로 잘 잡히는지(사용승인일 칸 이름)) · 앞선 요약 (2026-10-28 241차: 로컬 10/28 19:20 요청: ① #751 후속(kg2b_142624 240차 뒤에도 진행중) 진짜 원인 = K-apt 빠른 수집은 목록 최신 500건만 보고 그 상세만 읽어, 목록 밖으로 밀린 마감 전 관련 공고는 취소돼도 상세를 다시 못 읽음 → 이번에 상세를 못 읽은 마감 전 관련 공고를 DB 에서 '다시 확인한 때'(detail_seen_at)가 오래된 순으로 한 번에 40건 다시 읽음(목록 칸은 저장값 그대로 · 다시 읽기만 한 줄은 updated_at·건수 그대로) + 플랫폼 공고 조회 '?no=…&probe=1' = 지금 상세 응답 코드·길이·'취소된 계약' 여부(저장 안 함) ② 지운 일정 휴지통(캘린더 왼쪽·휴대폰 칩 '지운 일정': 최근 30일 · 지운 사람·때 · 입찰·영업 연동 취소 표시 · 남의 비공개 '바쁨' · [되살리기] · 미리보기에서 지우면 안내 [되돌리기] · 반복 일정은 앞서 지운 회차 제외) ③ 대표 '구글 캘린더 레퍼런스' 겹친 일정 겹쳐 쌓기(slotEventOverlap) ④ #743 1단계 나라장터 면허제한·참가가능지역 공고번호 조회(관련·마감 전만 한 번) ⑤ 홈 목록·알림·설정·프로젝트·더보기 링크 자동 미리 받기 끔
 시험: API 전체 210개 중 209 통과 → 실패 1(sales-collectors 다시 수집 '그대로' — 상세 읽은 때 칸 때문)을 고친 뒤 관련 41/41(새: events-trash-241 4 · sales-kapt-watch-241 2 · sales-g2b-limits-743 2) · E2E 대상 8단계 중 7 통과(새: 241차 지운 일정 587 · 10/19 겹쳐 쌓기 · #755 날짜 고르기) — V4 캘린더는 탭 확인 뒤 앞 단계가 만드는 동료 계정(minsu) 로그인에서 멈춤(단독 실행 한계, 전체 실행은 CI)
 확인 못함: 운영 K-apt 에서 kg2b_142624 취소 반영(배포 뒤 [지금 수집] · probe 값) · 나라장터 실제 응답 칸 이름(운영 키) · 구글 캘린더와 같은지(로컬 실제 화면 비교) · 첫 화면 요청 수 변화(운영 측정)) · 앞선 요약 (2026-10-28 240차: 로컬 10/28 17:25·17:45·18:22 묶음: ① #751 후속(광명자이더샵포레나 kg2b_142624 239차 뒤에도 진행중) — 같은 K-apt 공고가 두 줄(원본 영업관리 복사 + 워크인 수집)이면 수집이 한 줄만 고치고 카드는 진행중인 다른 줄을 보였음 → 같은 번호 줄 모두 같은 계산으로 고침 · 상세로 취소를 안 때(kapt_cancel_at) 표시 · 원본 매일 복사가 그 줄의 취소·참가 조건 칸을 되돌리지 않음 · 카드는 같은 번호 줄 하나라도 취소면 취소 ② #752 하이링크 공사 공고(제목·업무 구분·업종 제한에 '공사', 기관 이름의 공사 빼고) = '면허 업체 협력 필요' 배지(목록·상세 참가 방법·당일 메일·공고 조회) + ★즉시 검토 대신 검토(회사가 바꾼 분류는 그대로) ③ #753 AI 비서 자료실 찾기 — 낱말이 모두 맞는 자료가 없으면 낱말마다 찾아 많이 맞은 순 · 답에 이름이 나온 자료만 카드([열기] = 자료실 그 폴더·그 파일 강조 · [내려받기] · [업무에 붙이기]) · 권한 밖(기밀) 자료는 카드도 없음 ④ #754 마케팅 브랜드 합치기(자동 제작 › 브랜드 키트 '같은 브랜드면 합치기' — 연결된 시안·광고·목표·예산 몫 옮김, 찾는 낱말·금지어·색 합침, DAGYM 은 남길 브랜드의 찾는 낱말로) ⑤ #755~#757 캘린더: 시간 글자를 그 시각 가로줄 가운데에(맨 위 첫 글자 숨김) · 빈 칸 클릭 = 누른 자리 15분 칸부터 1시간 · 시각 목록 07:00~22:00 15분 단위 · 30분 일정 최소 높이를 30분 칸 높이 이하로(이어진 30분 일정 4건이 좌우로 안 쪼개짐, 겹치는 일정은 10/19 결정대로 나란히) · 30분 이하 일정은 한 줄 '제목, 오후 2:30' ⑥ 사이드바 미리 받기를 자주 쓰는 5곳(홈·업무·캘린더·메시지·결재)만 — 나머지는 누를 때 ⑦ 공개 요금 주소(/api/public/ai-plans)에서 내부 원가(달러·크레딧 단가) 숨김 ⑧ #758(대표 '어떤 계약인지?') 후속조사 업무 = '[후속조사] 시설 n곳 — 커뮤니티(주민공동시설) 운영 방식 확인(전화)' · 설명에 직영·위탁·미개관과 '입찰 공고가 난 곳이 아니라 큰 단지 순' · 곳마다 관련 공고 수 · 완료 창 운영 방식 고르기(미개관이면 첫 운영사 선정 예정 시기) · 카드 운영 방식·'관련 공고 n건' (업종별 용어 opCheck) ⑨ 가입 화면 체험 문구 'AI 300회' → 'AI 5,000원분'(10/24 대표 결정)
 시험: API 202/202(새: ai-library-find-753 3 · sales-partner-752 3 · sales-kapt-dup-751 2 · mkt-brand-merge-754 · ai-limits 공개 요금 · sales-migrate 취소·조건 유지 · sales-research-212 운영 방식) · E2E 대상 12단계 12/12(캘린더 6 · AI 비서 2 · 212차 후속조사 · 239차 입찰 카드 · 238차 되돌림 이동)(새: #753 자료 카드 586 · #755 캘린더 585 · 212차 후속조사 운영 방식) · typecheck·lint·build
